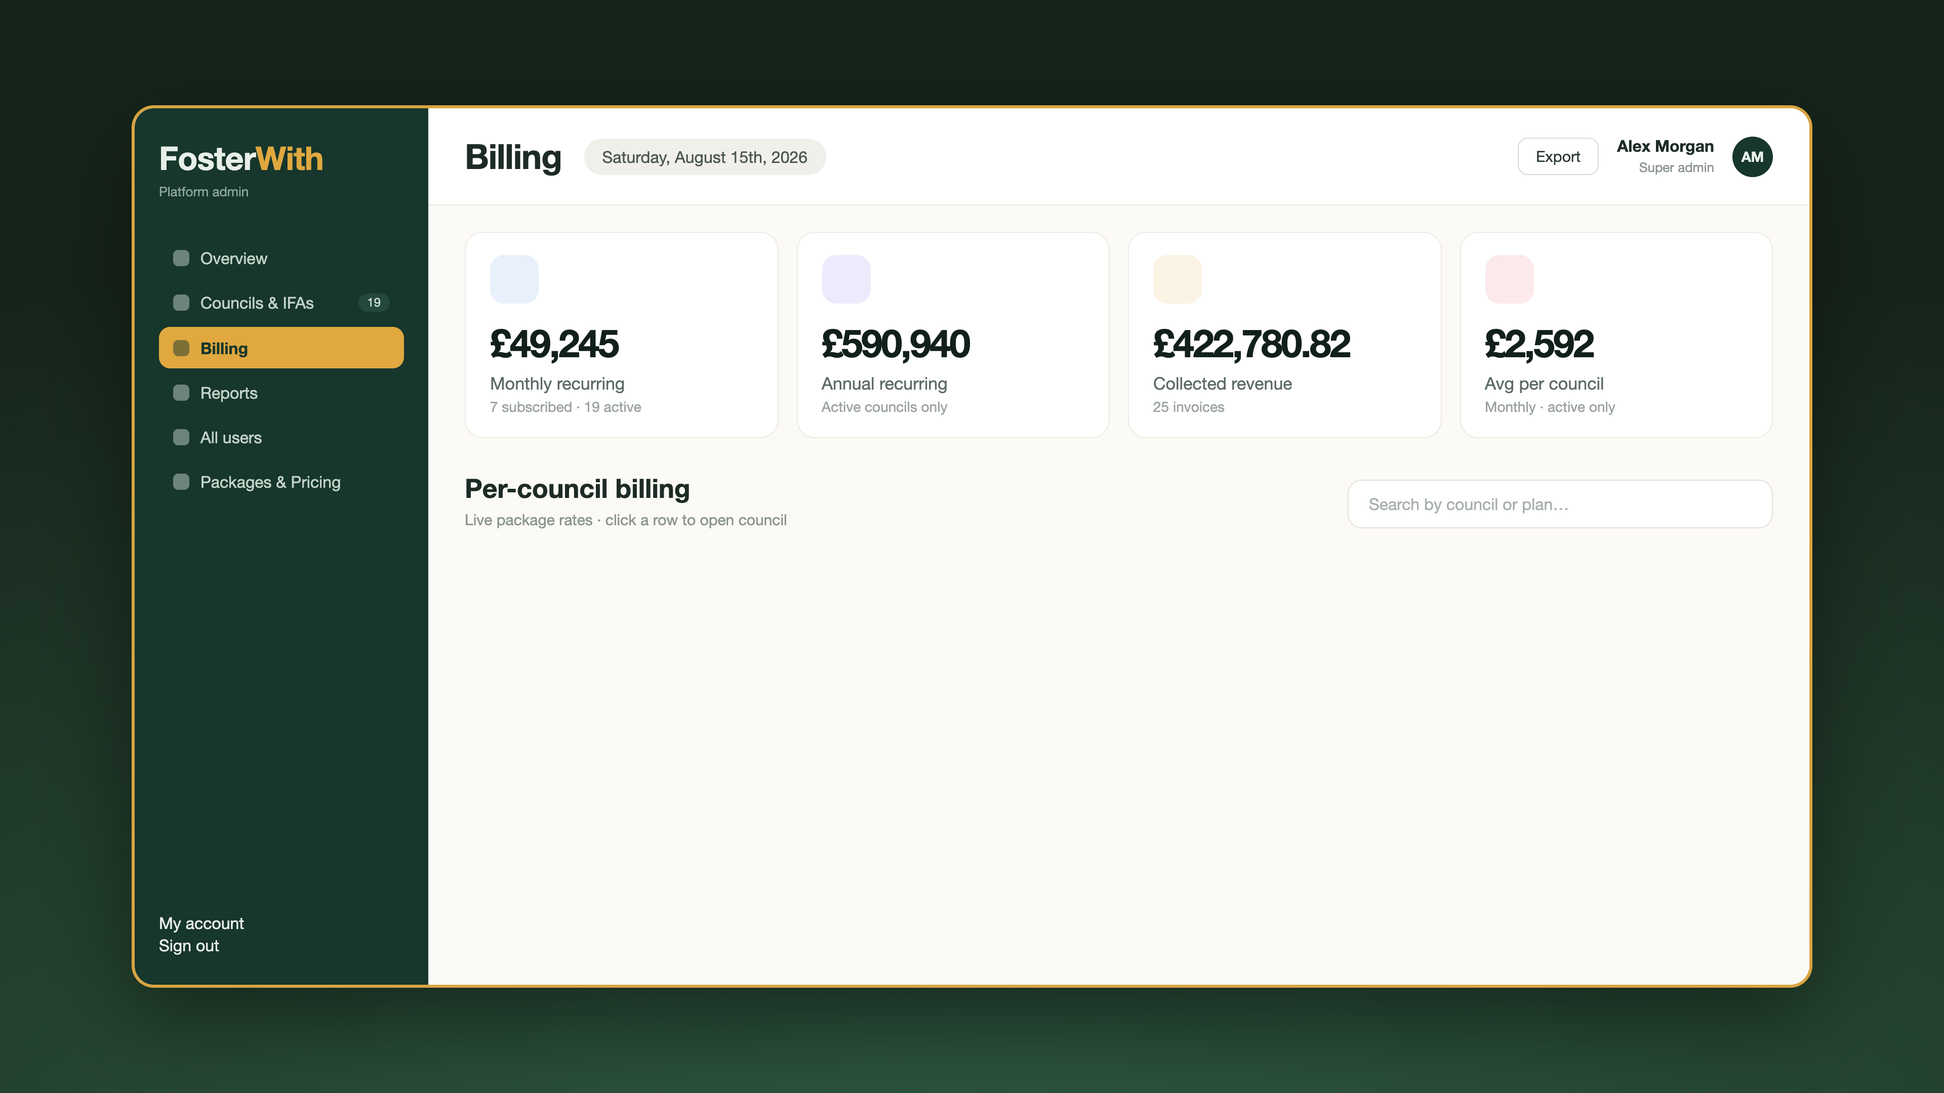
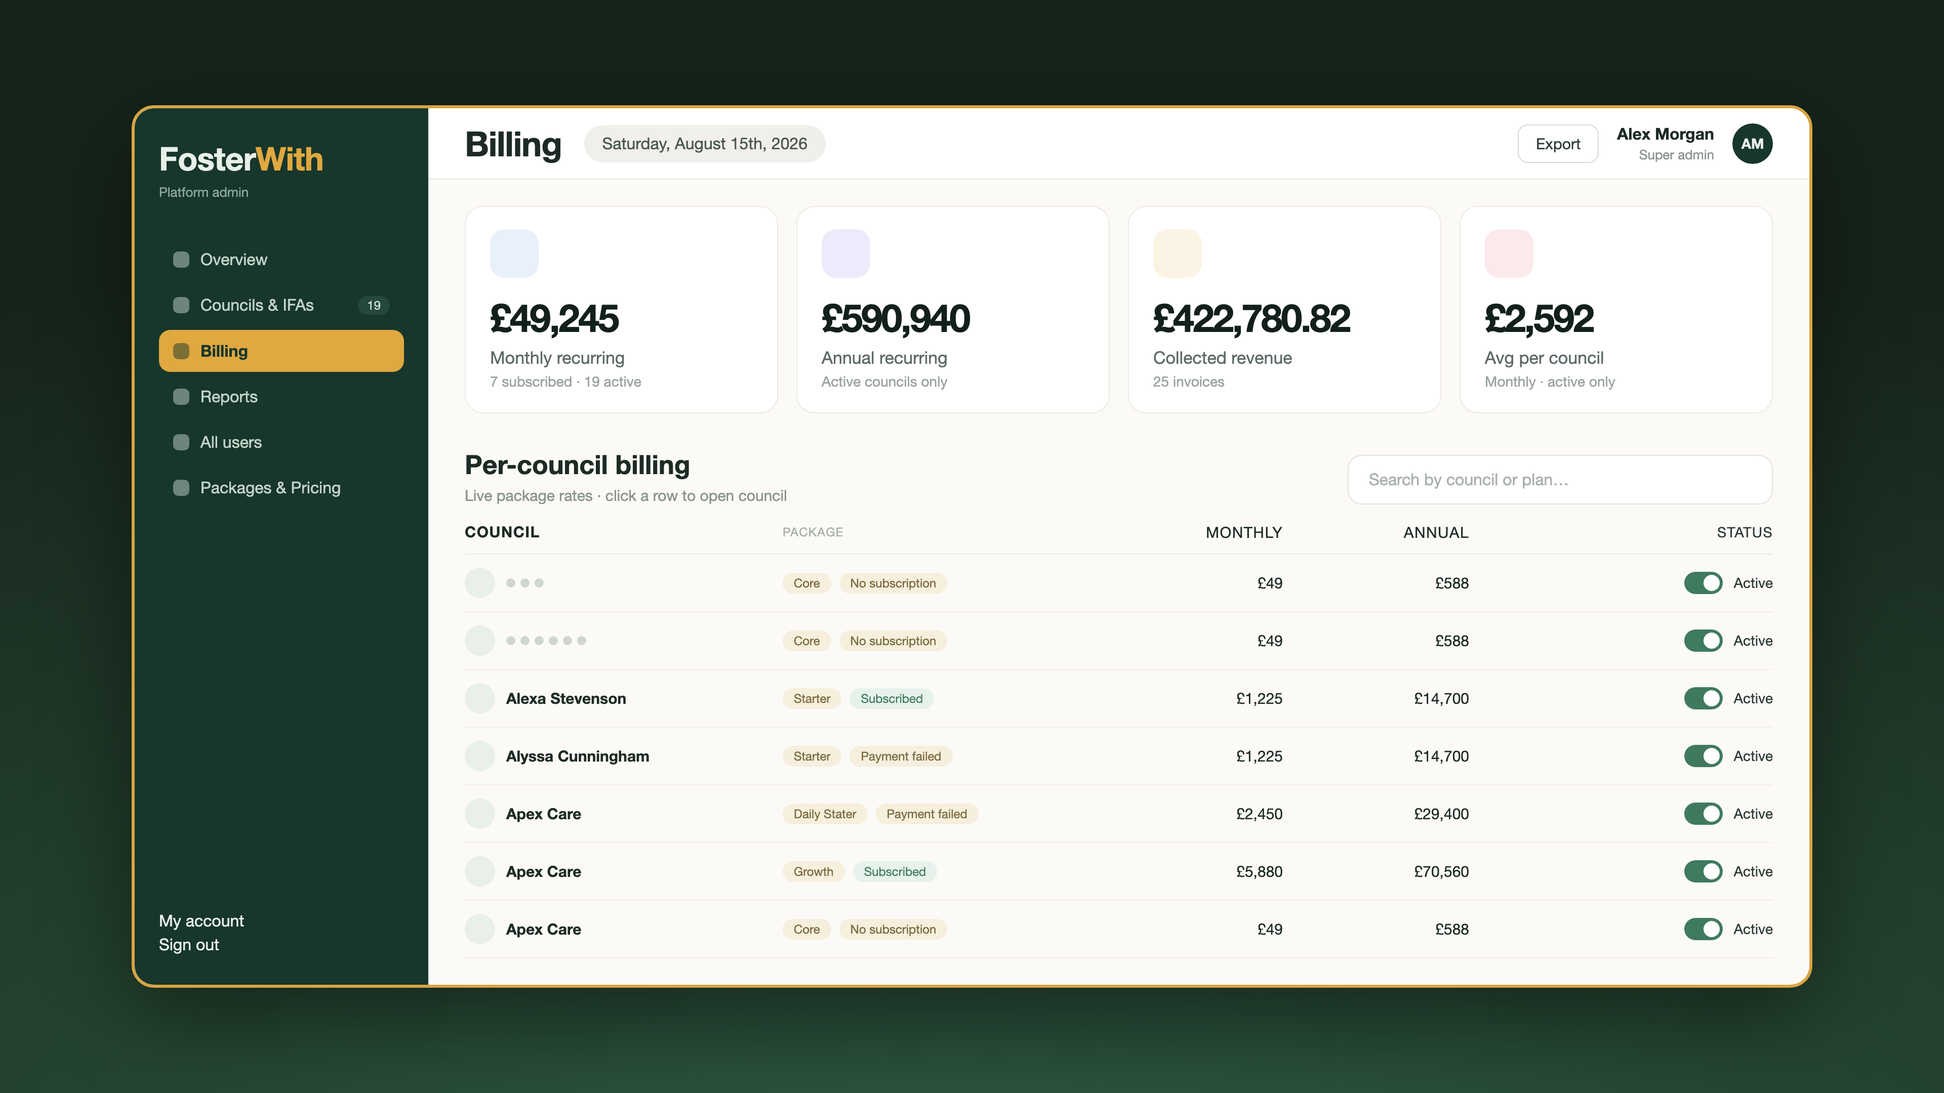
feat(foster): plan 9 — la plaque Billing entiere, pan horizontal pur
Le tableau de decoupage annoncait « transition (1 s), contenu a mesurer ».
Mesure : c'est un PLAN a part entiere, encadre de 2 coupes franches, et le
mouvement n'est PAS un pull back — bbox constante a 1 px pres (1678x904),
donc un pan horizontal pur de 79 px fortement amorti.

Geometrie resolue par systeme (2 cibles mesurees, 2 inconnues), pas dosee :
largeur a 1 px de la reference, ecart moyen 5 px sur la position.

Effet de bord trouve au passage : l'etat billing de la page n'avait jamais
contenu le tableau des lignes — invisible au plan 8 (zoome sur le haut),
expose par le plan 9 qui cadre la plaque entiere. Tableau ajoute et plaque
recapturee ; le plan 8 en herite (a arbitrer avant re-promotion).

diff --git a/src/projects/_client-sim/foster/scenes/Plan09PullBack.tsx b/src/projects/_client-sim/foster/scenes/Plan09PullBack.tsx
@@ -1,0 +1,127 @@
+// MOTEUR: UI produit — meme plaque capturee que le plan 8, recadree (pilier B2B n3)
+/**
+ * FOSTER — PLAN 9 (27,07 -> 28,07 s) : LA PLAQUE ENTIERE, FIN DE COURSE
+ * ====================================================================
+ * Reference : public/_client-sim/_references/foster/foster-with-confidence.mp4
+ *
+ * ⛔⛔ LE TABLEAU DE DECOUPAGE DISAIT « transition (1 s), contenu a MESURER ».
+ * Ce n'est PAS une transition : c'est un PLAN a part entiere, le dernier temps
+ * du dashboard. Mesure sur la reference (frames 26,80 -> 28,37, crop 1920 centre) :
+ *
+ *   27,067 s  COUPE FRANCHE (diff inter-frames 94,3 contre ~3 avant) — on passe
+ *             du plan serre du plan 8 a la plaque VUE EN ENTIER.
+ *   28,067 s  COUPE FRANCHE (diff 150,5) vers le plan 10 (typo, fond vert sombre,
+ *             le premier mot « Not » est deja lisible sur la 1re frame).
+ *
+ * ── ⭐⭐ CE QUE LA MESURE CONTREDIT : IL N'Y A AUCUN CHANGEMENT D'ECHELLE ──
+ * bbox de la plaque, frame par frame (seuil de luminance 90, watermark masque) :
+ *
+ *   t       x0    x1     W     H
+ *   27,067  199  1877  1678  904
+ *   27,133  176  1855  1679  904
+ *   27,267  151  1829  1678  904
+ *   27,467  133  1811  1678  904
+ *   27,733  123  1801  1678  904
+ *   28,033  120  1799  1679  904
+ *
+ * ⭐ W et H sont CONSTANTS a 1 px pres sur toute la duree. Ce n'est donc ni un
+ * pull back ni un push-in : c'est un PAN HORIZONTAL PUR de 79 px vers la gauche,
+ * fortement amorti. J'ai failli coder un dezoom parce que le plan « a l'air » de
+ * s'ouvrir — c'est le PIEGE N°2 du fichier projet (« ne jamais convertir une
+ * impression en facteur sans mesurer le rapport reel »). Le sentiment d'ouverture
+ * vient de la COUPE qui precede, pas d'un mouvement.
+ *
+ * ── L'AMORTISSEMENT (mesure, diff inter-frames) ────────────────────────────
+ * 8,00 -> 6,65 -> 5,48 -> 4,40 -> 3,26 -> 2,15 -> 1,27 -> 0,65 -> 0,17 -> 0,02
+ * Decroissance exponentielle propre, quasi immobile des 27,90 s. 55 des 79 px
+ * sont consommes dans les 200 premieres ms. C'est une FIN DE COURSE (le pan du
+ * plan 8 qui se pose), donc `Easing.out(Easing.expo)` et non un ease-in-out.
+ *
+ * ── LA GEOMETRIE : RESOLUE PAR SYSTEME, PAS DOSEE ─────────────────────────
+ * Plaque 1678 x 904 dans un cadre 1920 x 1080 => ratio 1,856, alors que la page
+ * capturee est en 1,778. La page n'est donc pas seulement REDUITE, elle est
+ * RECADREE en hauteur : on n'en voit ni le haut ni le bas.
+ *
+ * ⛔⛔ LA v1 A ECHOUE, ET PAS SUR UN DOSAGE. A zoom 1,044 / cx 960 la plaque
+ * sortait a 1731 px (contre 1678) et, aux premieres frames, le bord GAUCHE de la
+ * page entrait dans le cadre (x0 = 0, W = 1904) : PageCam remplit alors le
+ * hors-champ avec son fond papier `#faf7f2`. C'est le defaut deja paye au plan 8
+ * — a droite cette fois-ci — et sa cause est la meme : LA PAGE N'EST PAS ASSEZ
+ * LARGE pour le pan demande.
+ *
+ * ⭐ Resolution par systeme (2 cibles mesurees, 2 inconnues), jamais par retouche :
+ *   les bords de la fenetre dans l'espace page sont mesures sur la plaque
+ *   (x 130 -> 1789,5 en coords de page), les 2 cibles ecran sont celles de la
+ *   reference — [199, 1877] a la 1re frame, [120, 1799] a la derniere. D'ou
+ *   ZOOM et CX directement, sans essai.
+ *
+ * ⭐⭐ ET LA VRAIE CORRECTION EST EN AMONT, PAS DANS LES VALEURS. Le systeme
+ * montrait qu'a la bonne echelle le bord de page tombait A +67 px DANS le cadre :
+ * aucune valeur de cx ne pouvait sauver ca. `PageCam` codant son `#faf7f2` en
+ * dur (aucune prop de fond) et etant partage avec noteshield, on n'y touche pas :
+ * on ADAPTE L'ENTREE a ce que le socle sait faire (regle 3 du protocole projet).
+ * `dash-billing-wide.png` = la plaque elargie de 130 px de page de chaque cote,
+ * remplis avec le PROFIL VERTICAL du fond echantillonne sur ses propres colonnes
+ * de bord — donc le meme degrade vert, pas un aplat approche.
+ * ⚠ `PageCam` force `width: 1920` sur la page : une plaque plus large se
+ * comprimerait horizontalement. On lui rend donc sa hauteur proportionnelle
+ * (pageH = 1080 x 1920/2180 = 951) pour conserver le ratio.
+ *
+ * Liseré doré mesure au bord de la plaque : ~#d5bb84 (mesure (213,187,136)).
+ * Fond : vert sombre en bas (28,62,45), quasi noir en haut (20,19,15).
+ */
+
+import React from "react";
+import {
+  AbsoluteFill,
+  Easing,
+} from "remotion";
+import { PageCam } from "../../noteshield/live-page/shotcraft-lib/PageCam";
+
+/** 27,07 -> 28,07 s = 30 frames a 30 fps. */
+const F_END = 30;
+
+/**
+ * ⚠ PAS 1080 : la plaque elargie fait 2180 px de page de large, or `PageCam`
+ * impose `width: 1920`. On lui passe la hauteur proportionnelle pour que la page
+ * ne soit pas comprimee horizontalement.
+ */
+const PAGE_H = 951;
+const SCREENS = "_client-sim/foster/screens";
+
+/**
+ * ⭐ Valeurs RESOLUES (voir l'en-tete), pas dosees : la fenetre occupe
+ * x 229,0 -> 1690,6 dans cet espace page, et doit couvrir [199, 1877] a l'ecran
+ * en debut de plan puis [120, 1799] en fin — soit exactement les bbox mesurees
+ * sur la reference.
+ * Controle fait avant le rendu : aux deux extremites le bord gauche de la page
+ * tombe a -64 / -143 px (hors cadre) et le bord droit a 2142 / 2063 px (hors
+ * cadre) ; la hauteur couverte vaut 1092 px pour un cadre de 1080. Aucun fond
+ * papier ne peut donc apparaitre.
+ */
+const ZOOM = 1.1488;
+const CX_START = 891.4;
+const CX_END = 960.2;
+
+export const Plan09PullBack: React.FC = () => {
+  return (
+    <AbsoluteFill style={{ backgroundColor: "#16241b" }}>
+      <PageCam
+        src={`${SCREENS}/dash-billing-wide.png`}
+        pageH={PAGE_H}
+        keys={[
+          { frame: 0, cx: CX_START, cy: PAGE_H / 2, zoom: ZOOM, rotX: 0 },
+          { frame: F_END, cx: CX_END, cy: PAGE_H / 2, zoom: ZOOM, rotX: 0 },
+        ]}
+        /**
+         * Fin de course, pas un mouvement qui respire : 55 des 79 px sont
+         * consommes dans les 200 premieres ms, puis ca se pose (diff inter-frames
+         * mesuree 8,00 -> 0,02 en 30 frames). `Easing.out(Easing.exp)` reproduit
+         * cette decroissance exponentielle ; un ease-in-out ferait respirer un
+         * mouvement qui ne respire pas.
+         */
+        ease={Easing.out(Easing.exp)}
+      />
+    </AbsoluteFill>
+  );
+};

diff --git a/src/projects/_client-sim/foster/live-page/billing.html b/src/projects/_client-sim/foster/live-page/billing.html
@@ -112,6 +112,33 @@
   .search { margin-left:auto; width:420px; background:#fff; border:1px solid #e6e1d8;
             border-radius:14px; padding:14px 20px; font-size:16px; color:#a8b0ab; }
 
+  /* ── TABLEAU DE FACTURATION (etat billing) ──
+     ⛔ Ajoute le 2026-08-27 pour le PLAN 9. L'etat `billing` s'arretait au titre
+     « Per-council billing » : le bas de la plaque etait un grand aplat creme.
+     Invisible au plan 8 (zoom 1,55 sur les montants du haut, le vide restait
+     hors cadre), mais le plan 9 cadre la plaque ENTIERE et l'exposait —
+     42 % du cadre en blanc. La reference y montre bien 7 lignes. */
+  .bt { margin-top:18px; }
+  .bt-head { display:flex; align-items:center; gap:14px; padding:0 0 12px;
+             border-bottom:1px solid #ece7df; font-size:12px; letter-spacing:0.7px;
+             color:#a8b0ab; text-transform:uppercase; }
+  .brow { display:flex; align-items:center; gap:14px; padding:13px 0;
+          border-bottom:1px solid #f2eee7; }
+  .brow .av { width:30px; height:30px; }
+  .c-council { width:300px; display:flex; align-items:center; gap:11px;
+               font-size:15px; color:#1d2b24; font-weight:600; }
+  .c-package { width:330px; display:flex; align-items:center; gap:8px; }
+  .c-month { width:150px; text-align:right; font-size:15px; color:#1d2b24; }
+  .c-annual { width:170px; text-align:right; font-size:15px; color:#1d2b24; }
+  .c-status { margin-left:auto; display:flex; align-items:center; gap:11px;
+              font-size:14px; color:#2b3833; }
+  .sw { width:38px; height:22px; border-radius:999px; background:#3f7a5e;
+        position:relative; }
+  .sw::after { content:''; position:absolute; top:3px; right:3px; width:16px;
+               height:16px; border-radius:50%; background:#fff; }
+  .dots { display:flex; gap:5px; }
+  .dots i { width:9px; height:9px; border-radius:50%; background:#cfd6d1; }
+
   [hidden] { display:none !important; }
 </style>
 </head>
@@ -202,6 +229,16 @@
             <p>Live package rates &middot; click a row to open council</p>
           </div>
           <div class="search">Search by council or plan&hellip;</div>
+        </div>
+        <div class="bt">
+          <div class="bt-head"><span class="c-council">Council</span><span class="c-package">Package</span><span class="c-month">Monthly</span><span class="c-annual">Annual</span><span class="c-status">Status</span></div>
+          <div class="brow" data-capture="brow"><span class="c-council"><i class="av"></i><span class="dots"><i></i><i></i><i></i></span></span><span class="c-package"><span class="tag b">Core</span><span class="tag b">No subscription</span></span><span class="c-month">&pound;49</span><span class="c-annual">&pound;588</span><span class="c-status"><span class="sw"></span>Active</span></div>
+          <div class="brow" data-capture="brow"><span class="c-council"><i class="av"></i><span class="dots"><i></i><i></i><i></i><i></i><i></i><i></i></span></span><span class="c-package"><span class="tag b">Core</span><span class="tag b">No subscription</span></span><span class="c-month">&pound;49</span><span class="c-annual">&pound;588</span><span class="c-status"><span class="sw"></span>Active</span></div>
+          <div class="brow" data-capture="brow"><span class="c-council"><i class="av"></i><span>Alexa Stevenson</span></span><span class="c-package"><span class="tag b">Starter</span><span class="tag">Subscribed</span></span><span class="c-month">&pound;1,225</span><span class="c-annual">&pound;14,700</span><span class="c-status"><span class="sw"></span>Active</span></div>
+          <div class="brow" data-capture="brow"><span class="c-council"><i class="av"></i><span>Alyssa Cunningham</span></span><span class="c-package"><span class="tag b">Starter</span><span class="tag b">Payment failed</span></span><span class="c-month">&pound;1,225</span><span class="c-annual">&pound;14,700</span><span class="c-status"><span class="sw"></span>Active</span></div>
+          <div class="brow" data-capture="brow"><span class="c-council"><i class="av"></i><span>Apex Care</span></span><span class="c-package"><span class="tag b">Daily Stater</span><span class="tag b">Payment failed</span></span><span class="c-month">&pound;2,450</span><span class="c-annual">&pound;29,400</span><span class="c-status"><span class="sw"></span>Active</span></div>
+          <div class="brow" data-capture="brow"><span class="c-council"><i class="av"></i><span>Apex Care</span></span><span class="c-package"><span class="tag b">Growth</span><span class="tag">Subscribed</span></span><span class="c-month">&pound;5,880</span><span class="c-annual">&pound;70,560</span><span class="c-status"><span class="sw"></span>Active</span></div>
+          <div class="brow" data-capture="brow"><span class="c-council"><i class="av"></i><span>Apex Care</span></span><span class="c-package"><span class="tag b">Core</span><span class="tag b">No subscription</span></span><span class="c-month">&pound;49</span><span class="c-annual">&pound;588</span><span class="c-status"><span class="sw"></span>Active</span></div>
         </div>
       </div>
     </div>

diff --git a/src/Root.tsx b/src/Root.tsx
@@ -437,6 +437,7 @@ import { Plan05Diagram } from "./projects/_client-sim/foster/scenes/Plan05Diagra
 import { Plan06GoogleEarth } from "./projects/_client-sim/foster/scenes/Plan06GoogleEarth";
 import { Plan07Maison } from "./projects/_client-sim/foster/scenes/Plan07Maison";
 import { Plan08Dashboard } from "./projects/_client-sim/foster/scenes/Plan08Dashboard";
+import { Plan09PullBack } from "./projects/_client-sim/foster/scenes/Plan09PullBack";
 import { DeviceBenchPhone, DeviceBenchLaptop, DeviceBenchPhoneVision, DeviceBenchPhoneVisionBlindLights, DeviceBenchPhoneOrigVisionLights } from "./projects/_shared/_demos/devices/DeviceBench";
 import { JetonWarMap3DCompare } from "./projects/_shared/_demos/JetonWarMap3DCompare";
 import { RapidFireCountries } from "./projects/_shared/mapbox/RapidFireCountries";
@@ -744,6 +745,17 @@ export const RemotionRoot: React.FC = () => {
       
       
       <Folder name="atlas-peste-1347">
+        {/* FOSTER plan 9 : 27,07 -> 28,07 s = 30 frames a 30 fps.
+            ⛔ Le tableau annoncait « transition » : c'est un PLAN, la plaque vue
+            en entier, pan horizontal PUR de 79 px (taille constante, mesuree). */}
+        <Composition
+          id="FosterPlan09"
+          component={Plan09PullBack}
+          durationInFrames={30}
+          fps={30}
+          width={1920}
+          height={1080}
+        />
         {/* FOSTER plan 8 : 23,40 -> 27,07 s = 110 frames a 30 fps.
             2 SOUS-PLANS separes par une coupe MESUREE a 25,05 s (frame 49). */}
         <Composition

diff --git a/memory/projects/REPRO-FOSTER.md b/memory/projects/REPRO-FOSTER.md
@@ -2,9 +2,9 @@
 
 ## ⚡ REPRISE : COMMENCER ICI (session du 2026-08-27)
 
-**Etat : 8 plans sur 11 livres — 27,07 s / 42,75 s = 63 %.**
-Livrables valides par Aziz : `plan0{1..5}-FINAL.mp4` · plan 6 (`plan06_v7`) ·
-plan 7 (`plan07_v7`) · plan 8 (`plan08_v11`). A promouvoir en FINAL.
+**Etat : 9 plans sur 11 CODES — 28,07 s / 42,75 s = 66 %.**
+⚠ Le plan 9 (`plan09_v3`) est code et mesure, **en attente de validation d'Aziz**.
+Livrables valides : `plan0{1..8}-FINAL.mp4` (les plans 6, 7 et 8 ont ete promus).
 Code : `src/projects/_client-sim/foster/scenes/Plan0{1..8}*.tsx`
 Branche : `feat/repro-foster`.
 
@@ -18,9 +18,14 @@ plutot que d'attaquer la fin avec un contexte sature.
 
 | # | Bornes | Contenu | Notre brique | Difficulte |
 |---|---|---|---|---|
-| 9 | 27,07 -> 28,07 s | Transition (1 s) | a MESURER — le tableau ne dit rien | faible |
+| 9 | 27,07 -> 28,07 s | ✅ CODE — la plaque Billing vue EN ENTIER, pan horizontal pur | `Plan09PullBack` (PageCam) | faite |
 | 10 | 28,07 -> 40,46 s | Typo sur degrade vert-brun, montee vers le CTA « Foster With Clarity / Certainty / Confidence » | meme moteur que les plans 3 et 5 (typo) | **le plus long : 12,4 s** |
 | 11 | 40,46 -> 42,75 s | Fondu au noir, texture pointillee | trivial | faible |
+
+⭐ **MESURE UTILE POUR LE PLAN 10** : sa 1re frame (28,067 s) porte DEJA le mot
+« Not » — la typo du CTA commence donc par une phrase NEGATIVE, elle n'ouvre pas
+directement sur « Foster With ». Fond mesure a l'entree : vert tres sombre
+(16, 32, 27) de moyenne.
 
 **PUIS** : SFX + musique sur l'ensemble, et assemblage des 11 plans.
 ⛔ Rappel de la fiche UI-PRODUIT : **PAS de whoosh sur les coupes d'UI** (retire
@@ -42,6 +47,78 @@ gardant l'audio normal, indetectable sur des frames isolees.
 5. ⭐⭐ **RAPPELER l'appel externe EN COURS de correction**, pas seulement au
    demarrage (5 rendus perdus au plan 7 faute de l'avoir fait).
 6. ⭐⭐ **Reprendre le releve LIGNE PAR LIGNE avant de declarer fini.**
+
+### ✅ PLAN 9 — CODE ET MESURE (27/08), en attente de validation
+`Plan09PullBack.tsx` · 30 frames · `plan09_v3.mp4`.
+
+⛔⛔ **LE TABLEAU DISAIT « transition (1 s) » : C'EST UN PLAN A PART ENTIERE** — la
+plaque Billing vue EN ENTIER, dernier temps du dashboard. Les 2 coupes qui
+l'encadrent sont franches et mesurees (diff inter-frames 94,3 a 27,067 s et 150,5
+a 28,067 s, contre ~3 hors coupe).
+
+⭐⭐ **ET CE N'EST PAS UN PULL BACK, MALGRE L'IMPRESSION.** La bbox de la plaque
+mesuree frame par frame donne **W = 1678 et H = 904, CONSTANTS a 1 px pres** sur
+toute la duree : c'est un **PAN HORIZONTAL PUR** de 79 px vers la gauche, fortement
+amorti (55 px dans les 200 premieres ms). Le sentiment d'ouverture vient de la
+COUPE qui precede, pas d'un mouvement d'echelle. J'ai failli coder un dezoom —
+c'est exactement le piege n°2 de ce fichier (« ne jamais convertir une impression
+en facteur sans mesurer le rapport reel »), evite cette fois-ci par la mesure.
+
+**Resultat mesure** : largeur a 1 px de la reference (1679 vs 1678), positions de
+depart et d'arrivee exactes, ecart moyen 5 px sur x0 (concentre au milieu du
+mouvement : notre exponentielle descend un peu plus vite). Easing retenu :
+`Easing.out(Easing.exp)` — la decroissance mesuree va de 8,00 a 0,02 en 30 frames.
+
+### ⭐⭐⭐ LE VRAI ENSEIGNEMENT DU PLAN 9 : UN TROU CACHE PAR LE CADRAGE DU PLAN 8
+La v1 sortait une plaque dont **tout le bas etait un aplat creme**. Diagnostic :
+l'etat `billing` de `live-page/billing.html` **n'a jamais contenu le tableau des
+lignes** — il s'arretait au titre « Per-council billing ». Le plan 8 ne l'avait
+jamais montre parce qu'il zoome a 1,55 sur les montants du HAUT : le vide restait
+hors cadre. Le plan 9, qui cadre la plaque entiere, l'a expose.
+⭐ **Un defaut d'asset peut dormir plusieurs plans avant d'etre vu — ce n'est pas
+le plan qui le revele qui l'a introduit.** Le tableau (7 lignes, colonnes COUNCIL /
+PACKAGE / MONTHLY / ANNUAL / STATUS) a ete ajoute a la page et la plaque recapturee.
+
+⚠ **CONSEQUENCE SUR LE PLAN 8, A ARBITRER PAR AZIZ** : `dash-billing.png` est la
+plaque que le plan 8 utilise DIRECTEMENT. Le re-rendu du plan 8 donne une diff
+moyenne de 8 a 9 (donc non nulle) : son bas de cadre, jusqu'ici vide, affiche
+desormais le tableau. Cadrage, pan et montants sont inchangés — verifie sur 3
+frames. C'est une amelioration, mais elle touche un plan DEJA VALIDE : ne pas
+re-promouvoir `plan08-FINAL.mp4` sans l'accord d'Aziz.
+
+⛔ **ECART ASSUME (non corrige)** : notre fenetre d'app a un ratio de **1,904**
+contre **1,856** pour la reference — a largeur egale elle est **22 px trop plate**
+(2,4 %), et son contenu demarre ~70 px plus bas. La cause est la FORME de la
+fenetre dans la page HTML, pas le cadrage (ni le zoom ni le cy n'y changeraient
+rien). Corriger imposerait de retoucher le CSS et de recapturer les plaques du
+plan 8 valide. Vu le contrat (structure + gestes) et la regle de cadence d'Aziz
+sur les plans courts, laisse tel quel.
+
+⛔ **Gotcha outil rencontre** : `puppeteer` n'est PAS installe dans ce projet (ni
+localement ni en global) — `capture-foster-billing.mjs` echoue en
+`ERR_MODULE_NOT_FOUND`. Les NAVIGATEURS, eux, sont en cache. Capture faite en
+ligne de commande, sans rien installer :
+`~/.cache/puppeteer/chrome-headless-shell/mac_arm-152.0.7977.54/chrome-headless-shell-mac-arm64/chrome-headless-shell --headless --force-device-scale-factor=2 --window-size=1920,1080 --screenshot=<out> <url>`
+(les erreurs `CVDisplayLinkCreateWithCGDisplay` sont cosmetiques sur macOS.)
+⚠ Ce chemin de contournement ne regenere PAS `dash-layout.json` ni les decoupes —
+verifie : layout identique, MD5 des decoupes inchanges, donc plan 8 non impacte
+au-dela de la plaque elle-meme.
+
+⛔ **Contrainte structurelle trouvee par le calcul, pas par le dosage** : a la bonne
+echelle, le bord gauche de la page tombait **a +67 px DANS le cadre** — aucune
+valeur de `cx` ne pouvait le sauver, PageCam remplissant le hors-champ avec son
+`#faf7f2` (code EN DUR, aucune prop de fond). `PageCam` etant partage avec
+noteshield, on n'y a pas touche : on a **adapte l'ENTREE** (regle 3 du protocole).
+`dash-billing-wide.png` = la plaque elargie de 130 px de page de chaque cote,
+remplis avec le PROFIL VERTICAL du fond echantillonne sur ses propres colonnes de
+bord. ⚠ `PageCam` force `width: 1920` : une plaque plus large se comprimerait,
+d'ou `pageH = 951` (hauteur proportionnelle).
+
+⚠ **Defaut de structure repere dans `src/Root.tsx` (NON corrige, hors scope)** :
+le `<Folder name="client-sim-foster">` est ouvert puis un `<Folder
+name="atlas-peste-1347">` est imbrique dedans et contient les compositions Foster.
+La correction annoncee en commentaire n'est appliquee qu'a moitie. La toucher
+deplacerait les 9 compositions d'un coup — a faire deliberement, pas en passant.
 
 ### ✅ PLAN 8 — FAIT ET VALIDE (27/08)
 2 plaques capturees + decoupes + `PageCam`. Verdict d'Aziz : « l'UI est tres bien
